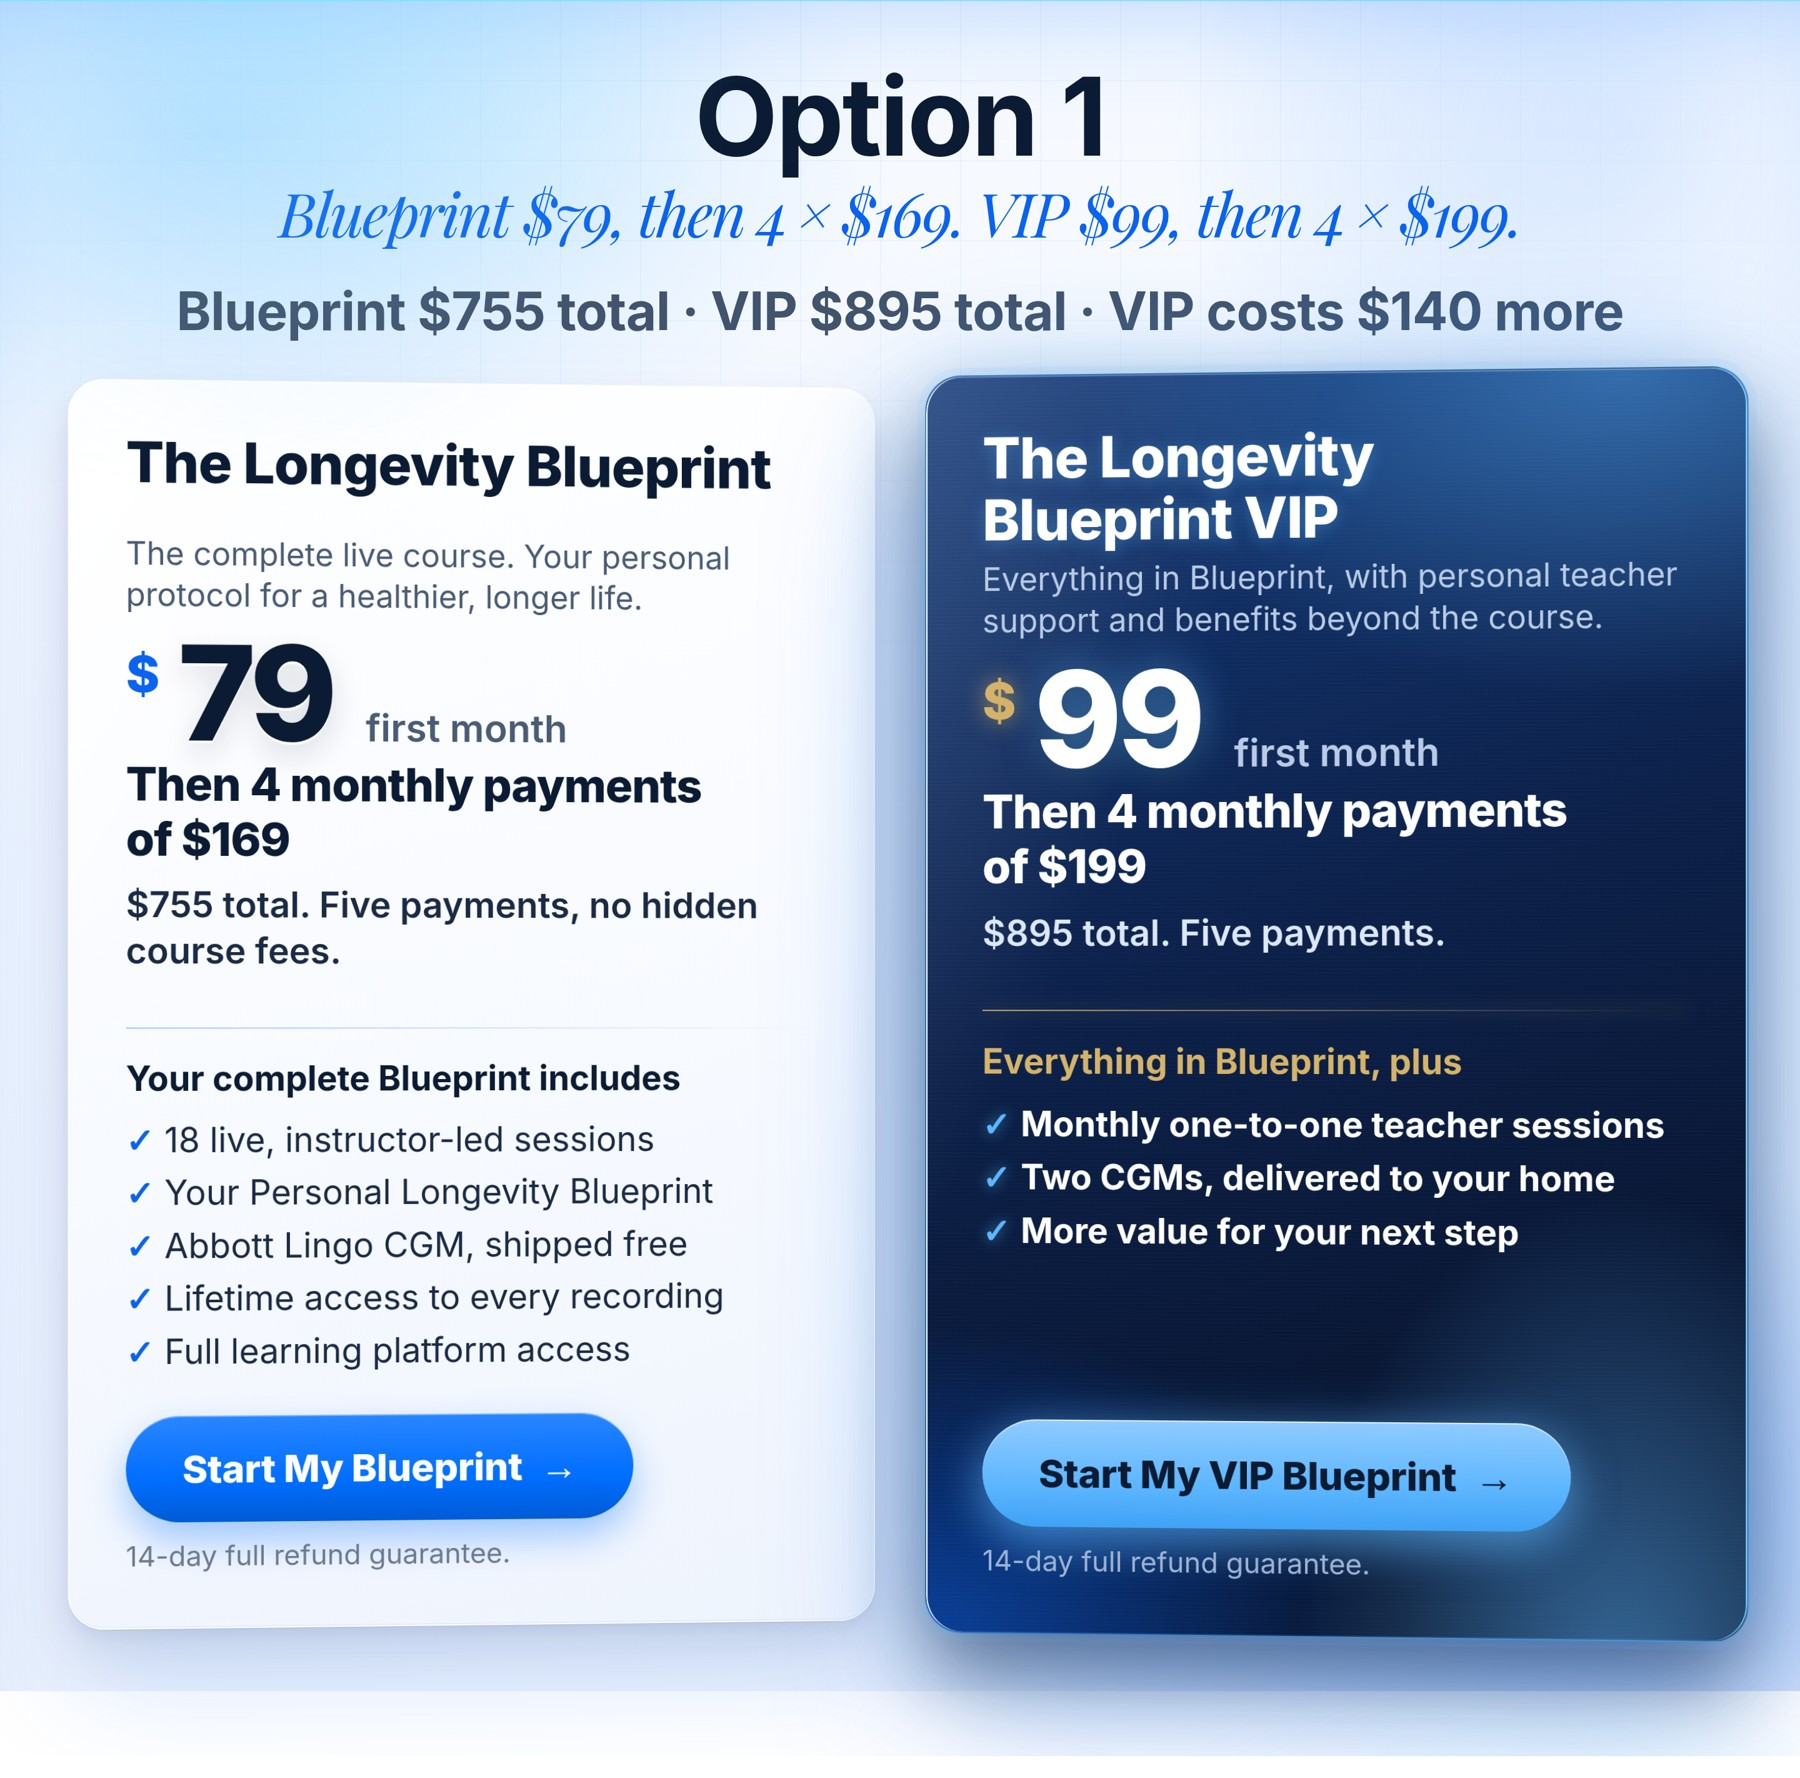
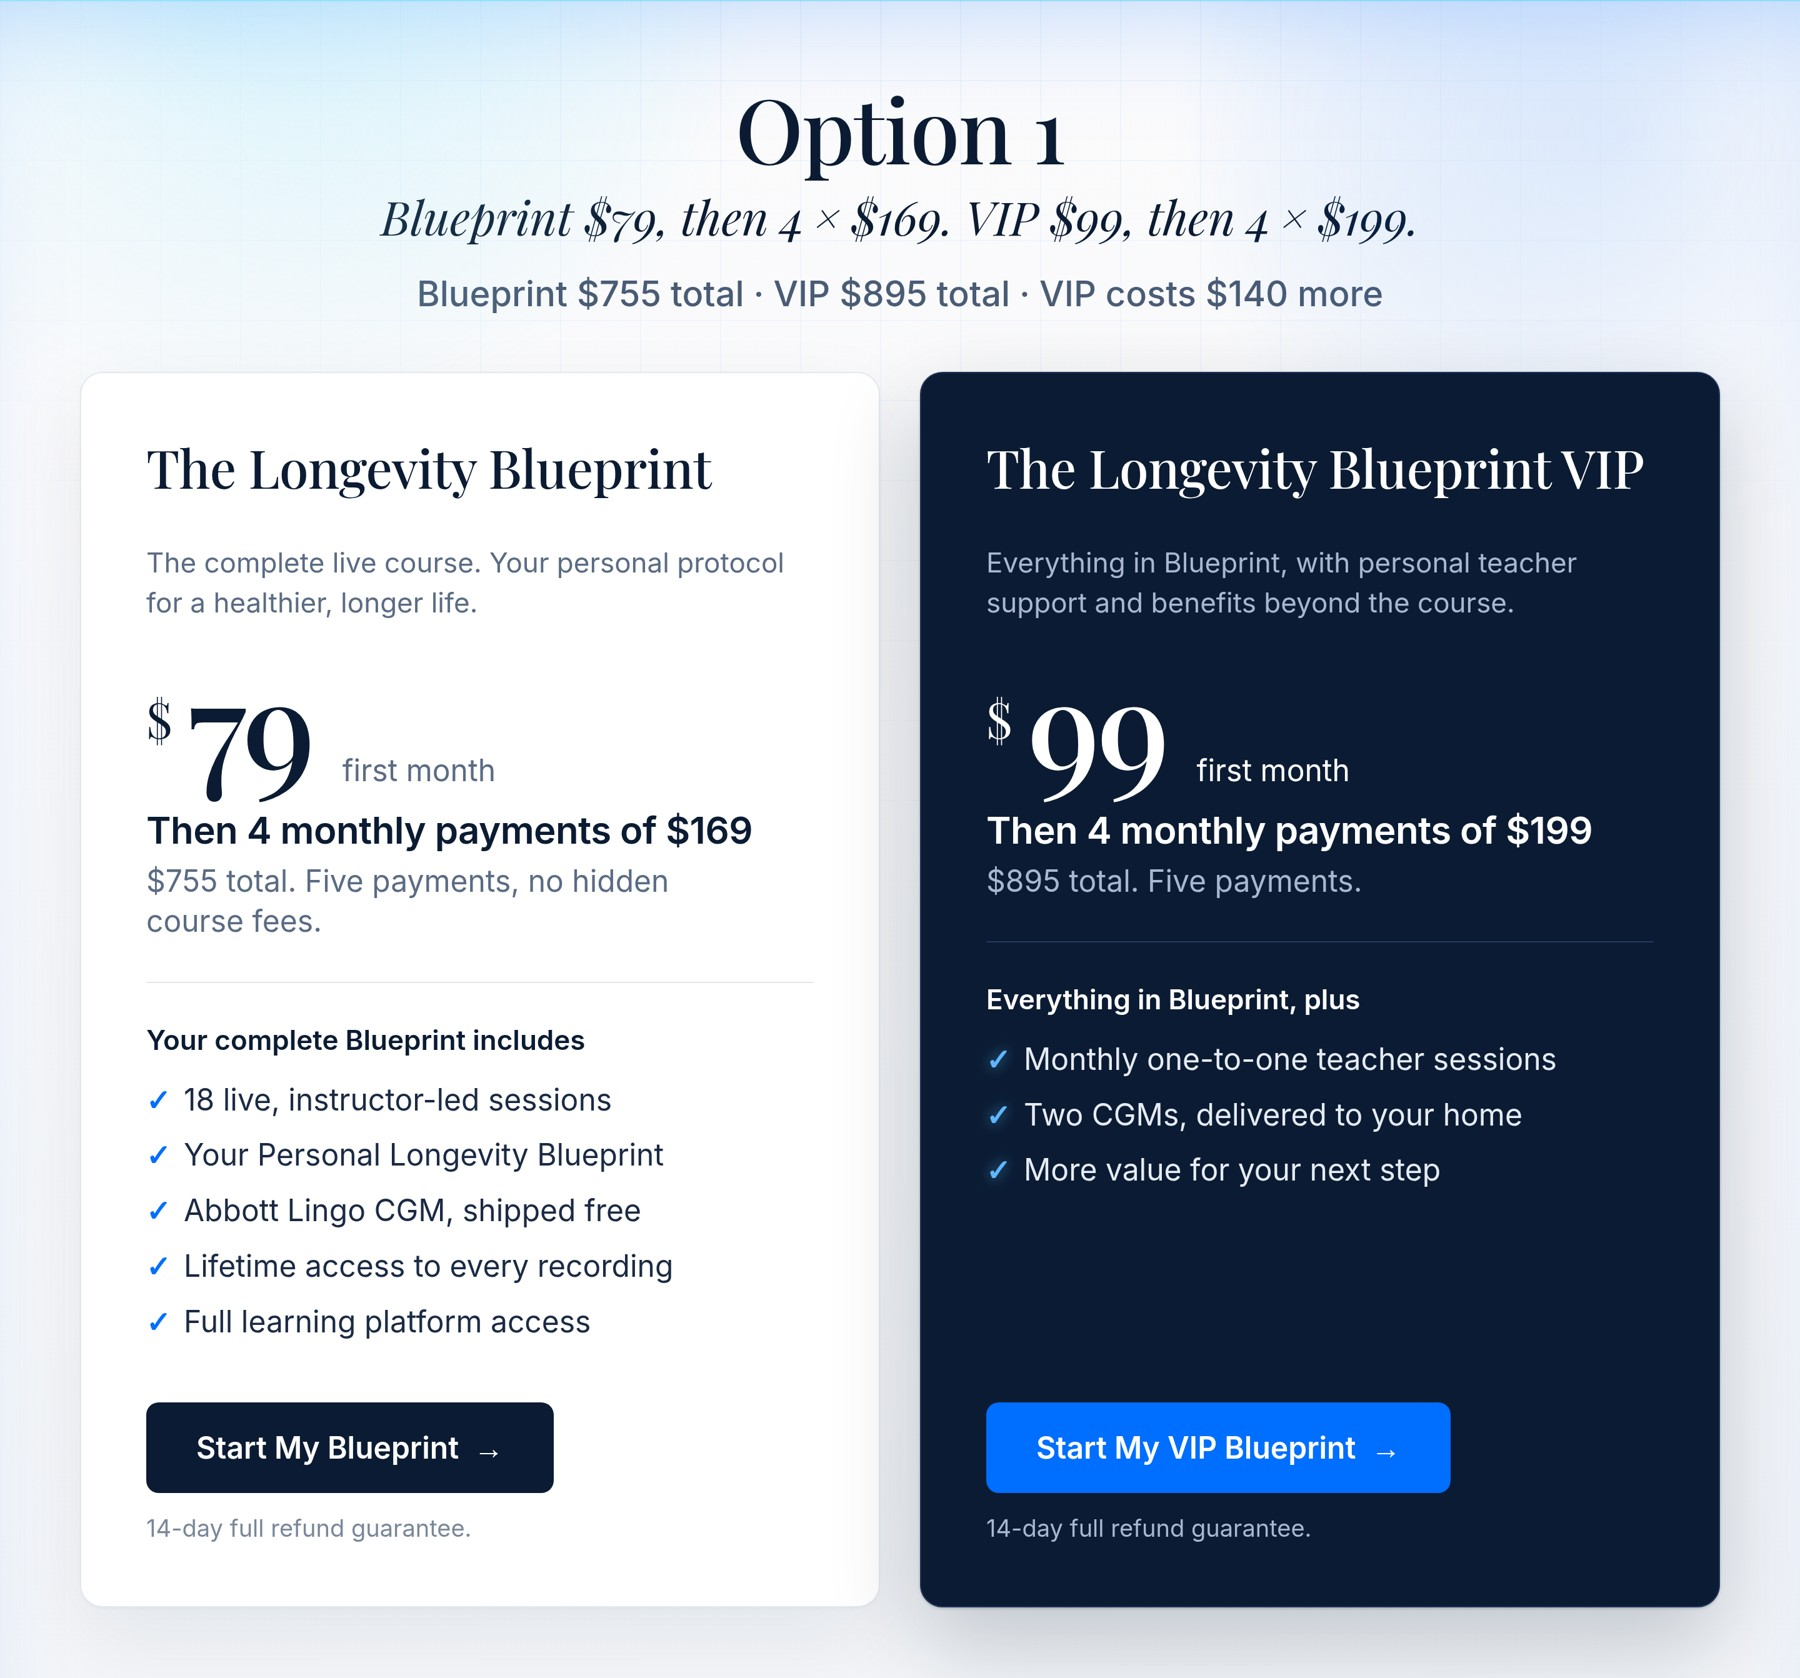
luxury restraint: flat white and navy, serif display, hairlines, no glow

diff --git a/compare/luxury.css b/compare/luxury.css
@@ -1,0 +1,34 @@
+#lpRoot .bp-offer{background:linear-gradient(180deg,#FBFBFC 0%,#F3F5F8 100%)!important;padding:64px 0 72px!important}
+#lpRoot .bp-offer .bp-wrap{max-width:1360px!important;width:100%!important;padding:0 24px}
+#lpRoot .bp-offer .bp-heading{margin-bottom:40px!important;text-align:center}
+#lpRoot .bp-offer .bp-heading h2{font-family:"Playfair Display",Georgia,serif!important;font-weight:500!important;font-style:normal!important;font-size:72px!important;line-height:1.05!important;letter-spacing:-1px!important;color:#0B1B33!important}
+#lpRoot .bp-offer .bp-heading h2 em{display:block;font-style:italic!important;font-weight:400!important;font-size:.52em!important;color:#0B1B33!important;margin-top:14px!important;letter-spacing:0!important}
+#lpRoot .opt-sum{font-family:"Inter",sans-serif!important;font-size:28px!important;font-weight:500!important;color:#4A5B75!important;margin:16px auto 0!important;text-align:center;letter-spacing:0!important;white-space:nowrap}
+#lpRoot .bp-offer .bp-grid{gap:32px!important;max-width:1360px!important;perspective:none!important}
+#lpRoot .bp-card,#lpRoot .bp-card.bp-vip{transform:none!important;background:#FFFFFF!important;border:1px solid #E3E8EF!important;border-radius:18px!important;box-shadow:0 1px 2px rgba(11,27,51,.03),0 24px 64px rgba(11,27,51,.07)!important;padding:52px 52px 48px!important;display:flex!important;flex-direction:column!important;position:relative;overflow:visible}
+#lpRoot .bp-card::before,#lpRoot .bp-card::after,#lpRoot .bp-card.bp-vip::before,#lpRoot .bp-card.bp-vip::after{display:none!important}
+#lpRoot .bp-card h3{font-family:"Playfair Display",Georgia,serif!important;font-weight:500!important;font-size:42px!important;line-height:1.1!important;letter-spacing:-.3px!important;color:#0B1B33!important;margin:0 0 10px!important}
+#lpRoot .bp-card .bp-desc{font-family:"Inter",sans-serif!important;font-size:22px!important;font-weight:400!important;line-height:1.45!important;color:#5B6B84!important;margin:0 0 30px!important}
+#lpRoot .bp-card .bp-price{display:flex!important;align-items:baseline!important;gap:12px!important;margin:0!important;color:#0B1B33!important}
+#lpRoot .bp-card .bp-price sup{font-family:"Playfair Display",Georgia,serif!important;font-size:40px!important;font-weight:400!important;color:#0B1B33!important;top:0!important;vertical-align:baseline!important;align-self:flex-start;margin-top:14px}
+#lpRoot .bp-card .bp-price strong{font-family:"Playfair Display",Georgia,serif!important;font-weight:500!important;font-size:112px!important;line-height:.9!important;letter-spacing:-3px!important;color:#0B1B33!important;background:none!important;-webkit-text-fill-color:#0B1B33!important;text-shadow:none!important}
+#lpRoot .bp-card .bp-price span{font-family:"Inter",sans-serif!important;font-size:24px!important;font-weight:400!important;color:#5B6B84!important}
+#lpRoot .bp-card .bp-follow{font-family:"Inter",sans-serif!important;font-size:30px!important;font-weight:600!important;line-height:1.25!important;color:#0B1B33!important;margin:16px 0 0!important;letter-spacing:-.3px}
+#lpRoot .bp-card .bp-total{font-family:"Inter",sans-serif!important;font-size:24px!important;font-weight:400!important;color:#5B6B84!important;margin:6px 0 0!important;line-height:1.35!important}
+#lpRoot .bp-card .bp-rule{height:1px!important;background:#E3E8EF!important;margin:32px 0 28px!important;box-shadow:none!important}
+#lpRoot .bp-card .bp-included{font-family:"Inter",sans-serif!important;font-size:22px!important;font-weight:600!important;color:#0B1B33!important;margin:0 0 14px!important;letter-spacing:0!important}
+#lpRoot .bp-card .bp-features{margin:0 0 36px!important;padding:0!important}
+#lpRoot .bp-card .bp-features li,#lpRoot .bp-card .bp-features li b,#lpRoot .bp-card .bp-features li strong{font-family:"Inter",sans-serif!important;font-size:24px!important;font-weight:400!important;line-height:1.35!important;color:#1B2A44!important;margin-bottom:12px!important}
+#lpRoot .bp-card .bp-features li .bp-detail,#lpRoot .bp-card .bp-features li small,#lpRoot .bp-card .bp-features li span{display:none!important}
+#lpRoot .bp-card .bp-features li::before,#lpRoot .bp-card .bp-features li svg{color:#006EFF!important;fill:#006EFF!important}
+#lpRoot .bp-card .bp-button{margin-top:auto!important;display:inline-flex!important;width:auto!important;align-self:flex-start;justify-content:center!important;gap:12px!important;padding:22px 40px!important;border-radius:10px!important;font-family:"Inter",sans-serif!important;font-size:24px!important;font-weight:600!important;letter-spacing:0!important;border:0!important;box-shadow:none!important;background:#0B1B33!important;color:#FFFFFF!important}
+#lpRoot .bp-card .bp-button span:last-child{font-size:24px!important}
+#lpRoot .bp-card .bp-guarantee{font-family:"Inter",sans-serif!important;font-size:19px!important;color:#7A8799!important;margin:14px 0 0!important;text-align:left!important}
+/* VIP: flat deep navy */
+#lpRoot .bp-card.bp-vip{background:#0B1B33!important;border:1px solid #1E3358!important;box-shadow:0 1px 2px rgba(11,27,51,.2),0 28px 70px rgba(11,27,51,.22)!important}
+#lpRoot .bp-card.bp-vip h3,#lpRoot .bp-card.bp-vip .bp-price,#lpRoot .bp-card.bp-vip .bp-price sup,#lpRoot .bp-card.bp-vip .bp-price strong,#lpRoot .bp-card.bp-vip .bp-follow,#lpRoot .bp-card.bp-vip .bp-included{color:#FFFFFF!important;-webkit-text-fill-color:#FFFFFF!important;text-shadow:none!important}
+#lpRoot .bp-card.bp-vip .bp-desc,#lpRoot .bp-card.bp-vip .bp-price span,#lpRoot .bp-card.bp-vip .bp-total,#lpRoot .bp-card.bp-vip .bp-guarantee{color:#A9B8CF!important}
+#lpRoot .bp-card.bp-vip .bp-features li,#lpRoot .bp-card.bp-vip .bp-features li b,#lpRoot .bp-card.bp-vip .bp-features li strong{color:#E6ECF5!important}
+#lpRoot .bp-card.bp-vip .bp-features li::before,#lpRoot .bp-card.bp-vip .bp-features li svg{color:#5EB6FF!important;fill:#5EB6FF!important}
+#lpRoot .bp-card.bp-vip .bp-rule{background:#243A63!important}
+#lpRoot .bp-card.bp-vip .bp-button{background:#006EFF!important;color:#FFFFFF!important}

diff --git a/options/index.html b/options/index.html
@@ -1780,7 +1780,7 @@ body.lla-em-open #et-bumpyard-widget{display:none!important}
   html body#lpRoot #hero .pdp-cine-sub{font-family:'Inter',sans-serif!important;font-style:normal!important;text-transform:none!important}
 }
 </style>
-<link rel="stylesheet" href="../relaunch.css?v=vip199"><style id="opt-only">body>*:not(section.bp-offer):not(script):not(style){display:none!important}body>section.bp-offer{display:block!important}.bp-foot{display:none!important}.opt-sum{font-size:clamp(22px,2.2vw,30px)!important;font-weight:700;color:#0B1B33;margin:18px auto 0;text-align:center;letter-spacing:-.4px;max-width:none!important;white-space:nowrap}.bp-heading h2 em{display:block;font-size:.72em;margin-top:6px}[class^="lla-cta"],.lla-cta,#llaCta,.lla-sticky-cta,.lla-float-cta,#llaFloatCta,[id^="llaFloat"],.lla-float-cta--home{display:none!important;visibility:hidden!important}</style><link rel="stylesheet" href="../compare/premium.css?v=p13"></head>
+<link rel="stylesheet" href="../relaunch.css?v=vip199"><style id="opt-only">body>*:not(section.bp-offer):not(script):not(style){display:none!important}body>section.bp-offer{display:block!important}.bp-foot{display:none!important}.opt-sum{font-size:clamp(22px,2.2vw,30px)!important;font-weight:700;color:#0B1B33;margin:18px auto 0;text-align:center;letter-spacing:-.4px;max-width:none!important;white-space:nowrap}.bp-heading h2 em{display:block;font-size:.72em;margin-top:6px}[class^="lla-cta"],.lla-cta,#llaCta,.lla-sticky-cta,.lla-float-cta,#llaFloatCta,[id^="llaFloat"],.lla-float-cta--home{display:none!important;visibility:hidden!important}</style><link href="https://fonts.googleapis.com/css2?family=Playfair+Display:ital,wght@0,400;0,500;0,600;1,400;1,500&display=swap" rel="stylesheet"><link rel="stylesheet" href="../compare/luxury.css?v=l2"></head>
 <body id="lpRoot">
 <!-- Google Tag Manager (noscript) -->
 

diff --git a/compare/index.html b/compare/index.html
@@ -1,4 +1,4 @@
 <!doctype html><html lang="en"><head><meta charset="utf-8"><meta name="viewport" content="width=device-width,initial-scale=1"><meta name="robots" content="noindex"><title>Blueprint VIP pricing · 3 options</title>
 <style>body{margin:0;background:#F3F7FC;font-family:-apple-system,Inter,sans-serif;color:#0B1B33}.w{max-width:1100px;margin:0 auto;padding:16px 10px 40px}h1{font-size:22px;margin:6px 6px 14px;letter-spacing:-.3px}img{width:100%;display:block;border-radius:14px;box-shadow:0 6px 24px rgba(11,27,51,.12);margin-bottom:18px;background:#fff}</style></head>
 <body><div class="w"><h1>Blueprint VIP pricing · 3 options</h1>
-<img src="option-1.jpg?v=13" alt="Option 1: VIP $99, then 4 × $199"><img src="option-2.jpg?v=13" alt="Option 2: VIP $129, then 4 × $229"><img src="option-3.jpg?v=13" alt="Option 3: VIP $99, then 4 × $229"></div></body></html>
+<img src="option-1.jpg?v=14" alt="Option 1: VIP $99, then 4 × $199"><img src="option-2.jpg?v=14" alt="Option 2: VIP $129, then 4 × $229"><img src="option-3.jpg?v=14" alt="Option 3: VIP $99, then 4 × $229"></div></body></html>
